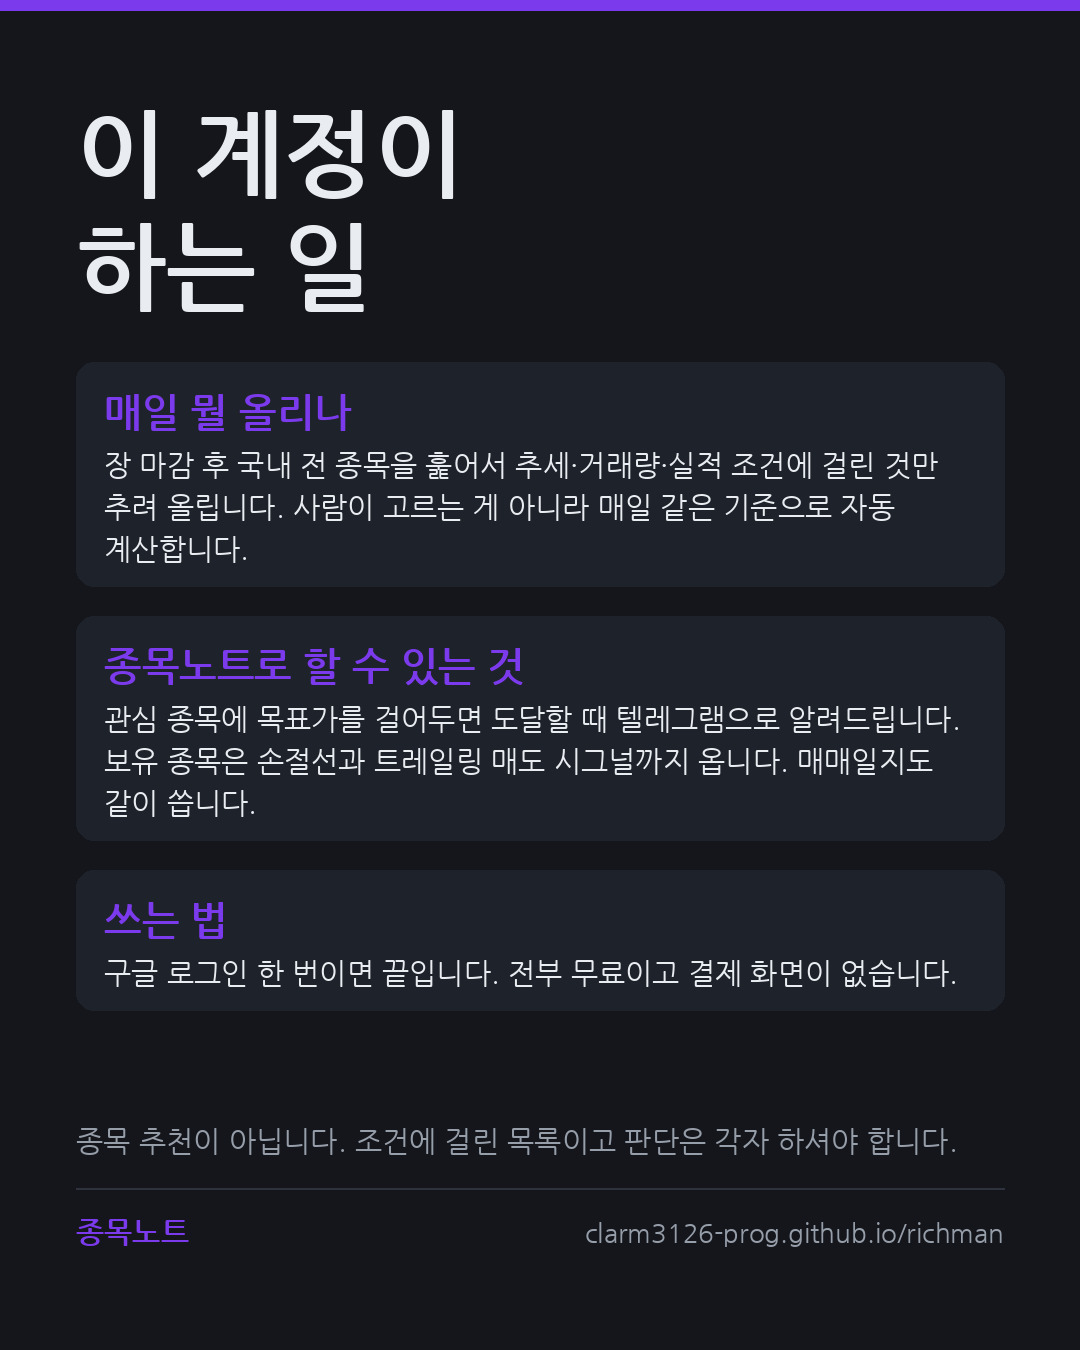
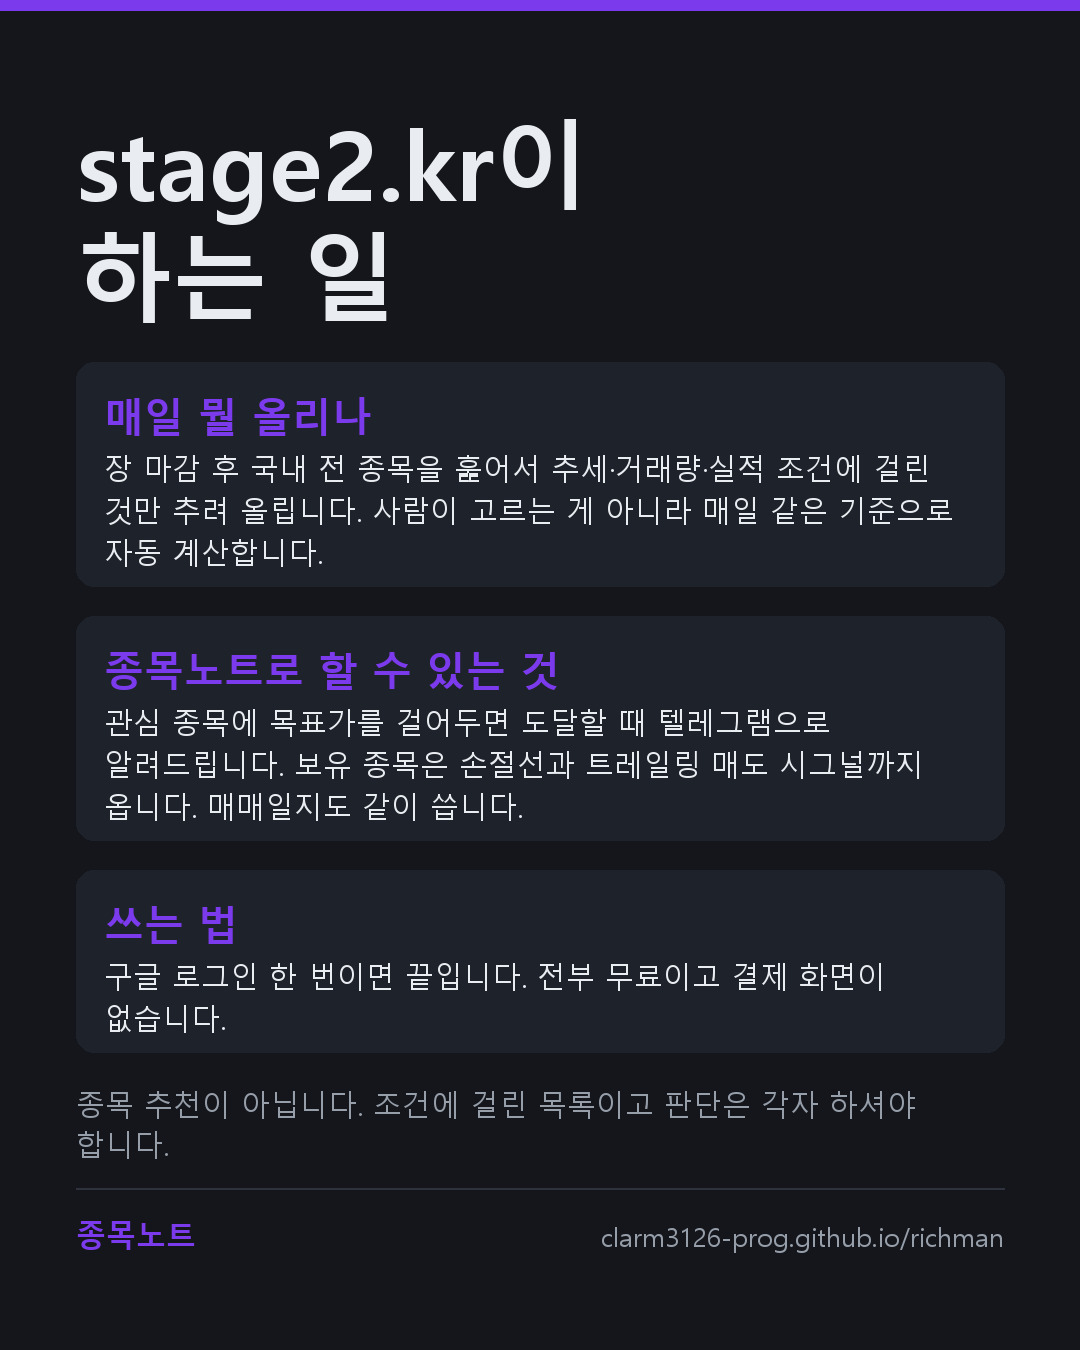
fix: 인스타 오류 응답이 와도 실제 게시 여부로 판정한다
어제 첫 인스타 발행에서 media_publish가 403(subcode 2207051,
"We restrict certain activity to protect our community")을 냈는데
게시물은 실제로 올라갔다. 인스타는 게시에 성공하고도 스팸 판정 계열
오류를 돌려주는 경우가 있다.

응답만 믿으면 두 가지가 어긋난다.
  - 올라갔는데 실패로 기록 -> ig_id가 안 남아 중복 발행 위험
  - 멀쩡한데 "차단됨"으로 판단 -> 며칠씩 인스타를 쉬게 됨

그래서 발행 직전 최신 게시물 ID를 기억해두고, 오류가 나면 다시 조회해
ID가 바뀌었는지 본다. 바뀌었으면 게시에 성공한 것으로 처리한다.

정말로 안 올라갔고 차단 계열 오류이면 3일간 인스타 발행을 멈춘다.
매일 재시도하며 컨테이너를 만들어대면 차단만 길어진다.
prepare 단계에서 걸러 카드도 만들지 않는다.

세 경우를 가짜 API로 확인했다.
  정상 발행            -> 기록, 정지 없음, 알림 없음
  오류 응답 + 실제 게시 -> 기록, 정지 없음, 알림 없음
  오류 응답 + 미게시    -> 미기록, 3일 정지, 텔레그램 알림

소개 카드 헤드라인을 "이 계정이 하는 일"에서
"stage2.kr이 하는 일"로 바꿨다.

diff --git a/scripts/social_post.py b/scripts/social_post.py
@@ -21,6 +21,7 @@ import hashlib
 import sys
 import time
 import traceback
+from datetime import timedelta
 from pathlib import Path
 
 import requests
@@ -34,6 +35,27 @@ from social.threads_api import Threads  # noqa: E402
 
 PENDING = "pending"
 STATE = "state"
+
+# 인스타가 게시를 막았을 때 쉬는 기간
+PAUSE_DAYS = 3
+
+# "We restrict certain activity to protect our community" 계열 응답.
+# 단순 횟수 초과가 아니라 스팸 의심 차단이라 바로 재시도하면 더 나빠진다.
+BLOCK_MARKERS = ("2207051", "action is blocked", "restrict certain activity")
+
+
+def is_blocked(err):
+    text = str(err).lower()
+    return any(m.lower() in text for m in BLOCK_MARKERS)
+
+
+def latest_media_id(api):
+    """계정의 가장 최근 게시물 ID. 조회에 실패하면 빈 문자열."""
+    try:
+        media = api.recent_media(limit=1)
+        return media[0]["id"] if media else ""
+    except Exception:
+        return ""
 
 
 def text_key(text):
@@ -99,6 +121,13 @@ def prepare(dry_run=False, only=None, force=False):
     if not ready and not dry_run:
         print("발행 가능한 플랫폼이 없습니다 (시크릿을 확인하세요)")
         return
+    # 인스타가 게시를 차단한 직후에는 재시도하지 않는다.
+    # 매일 컨테이너를 만들어대면 차단 신호만 더 쌓인다.
+    paused = state.get("instagram_paused_until")
+    if paused and paused >= today and "instagram" in ready:
+        print(f"인스타 일시 중지 중 ({paused}까지) - 제외")
+        ready = [p for p in ready if p != "instagram"]
+
     # 예행 연습은 자격증명이 없어도 본문을 보여준다
     platforms = ready or platforms
 
@@ -199,6 +228,7 @@ def publish():
     image_urls = plan.get("image_urls") or []
     images_ready = None
     problems = []
+    paused_now = False
 
     for platform in plan["platforms"]:
         text = plan["texts"].get(platform)
@@ -226,25 +256,54 @@ def publish():
                     raise InstagramError(f"이미지 URL이 아직 열리지 않음: {image_urls}")
 
                 api = Instagram(creds["instagram"]["user_id"], creds["instagram"]["token"])
-                if len(image_urls) >= 2:
-                    media_id = api.publish_carousel(image_urls, text)
-                    print(f"인스타 캐러셀 발행 완료 ({len(image_urls)}장): {media_id}")
-                else:
-                    media_id = api.publish_image(image_urls[0], text)
-                    print(f"인스타 발행 완료: {media_id}")
+                # 발행 전 최신 게시물 ID. 오류가 나도 실제로 올라갔는지
+                # 판별하는 기준이 된다.
+                before_id = latest_media_id(api)
+
+                try:
+                    if len(image_urls) >= 2:
+                        media_id = api.publish_carousel(image_urls, text)
+                        print(f"인스타 캐러셀 발행 완료 ({len(image_urls)}장): {media_id}")
+                    else:
+                        media_id = api.publish_image(image_urls[0], text)
+                        print(f"인스타 발행 완료: {media_id}")
+                except Exception as e:
+                    # 인스타는 게시에 성공하고도 오류 응답을 주는 경우가 있다.
+                    # 실제로 올라갔는지 확인하고, 올라갔으면 성공으로 처리한다.
+                    after_id = latest_media_id(api)
+                    if after_id and after_id != before_id:
+                        media_id = after_id
+                        print(f"  오류 응답이 왔지만 실제로는 게시됨: {media_id}")
+                        print(f"  (응답 내용: {str(e)[:200]})")
+                    else:
+                        raise
                 record["ig_id"] = media_id
 
         except Exception as e:
             msg = f"{platform} 발행 실패: {e}"
             print(f"  ! {msg}")
             problems.append(msg)
+            # 실제로도 안 올라갔고 스팸 차단(subcode 2207051)이면 며칠 쉰다.
+            # 매일 재시도하며 컨테이너를 만들어대면 차단만 길어진다.
+            if platform == "instagram" and is_blocked(e):
+                until = (store.now_kst() + timedelta(days=PAUSE_DAYS)).strftime("%Y-%m-%d")
+                state["instagram_paused_until"] = until
+                paused_now = True
+                problems.append(
+                    f"인스타가 게시를 차단했습니다 (스팸 의심). {until}까지 인스타 발행을 멈춥니다."
+                )
 
     if record.get("threads_id") or record.get("ig_id"):
         state.setdefault("posts", []).append(record)
         state["posts"] = state["posts"][-60:]
+        _save_state = True
+    else:
+        _save_state = paused_now
         if plan.get("source") == "manual" and plan.get("key"):
             state.setdefault("queue_done", []).append(plan["key"])
             state["queue_done"] = state["queue_done"][-200:]
+
+    if _save_state:
         store.save(STATE, state)
 
     store.save(PENDING, {})
